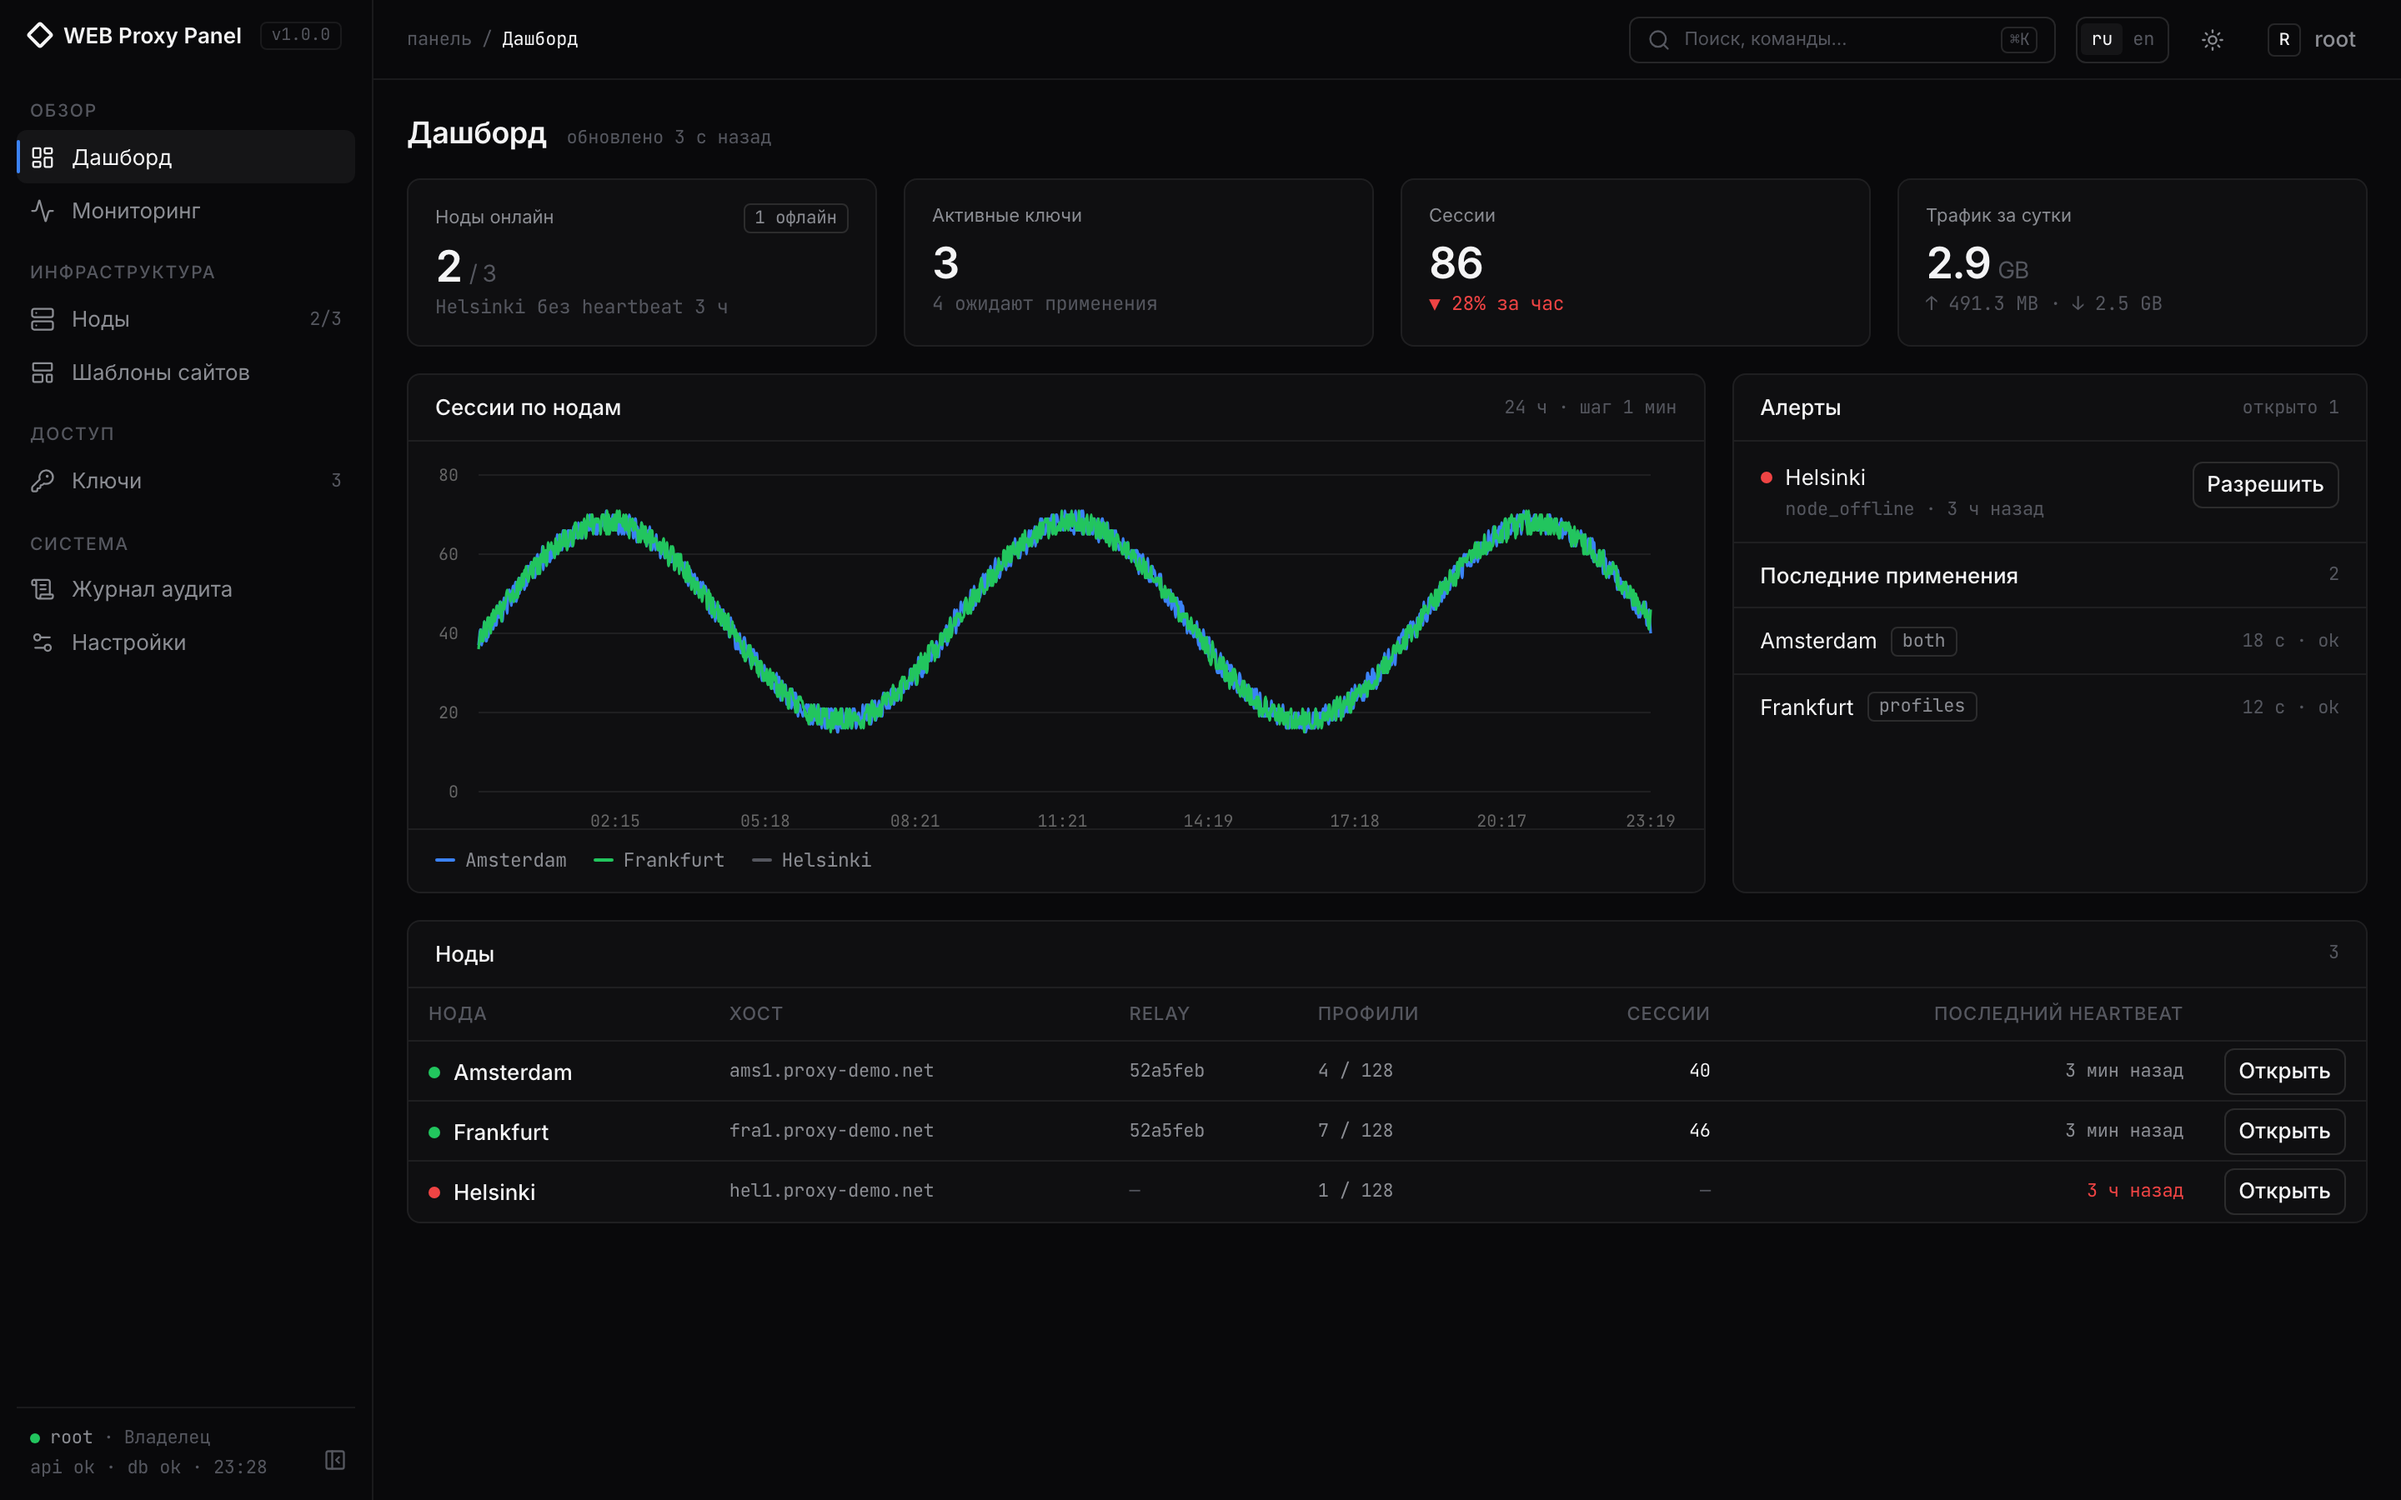
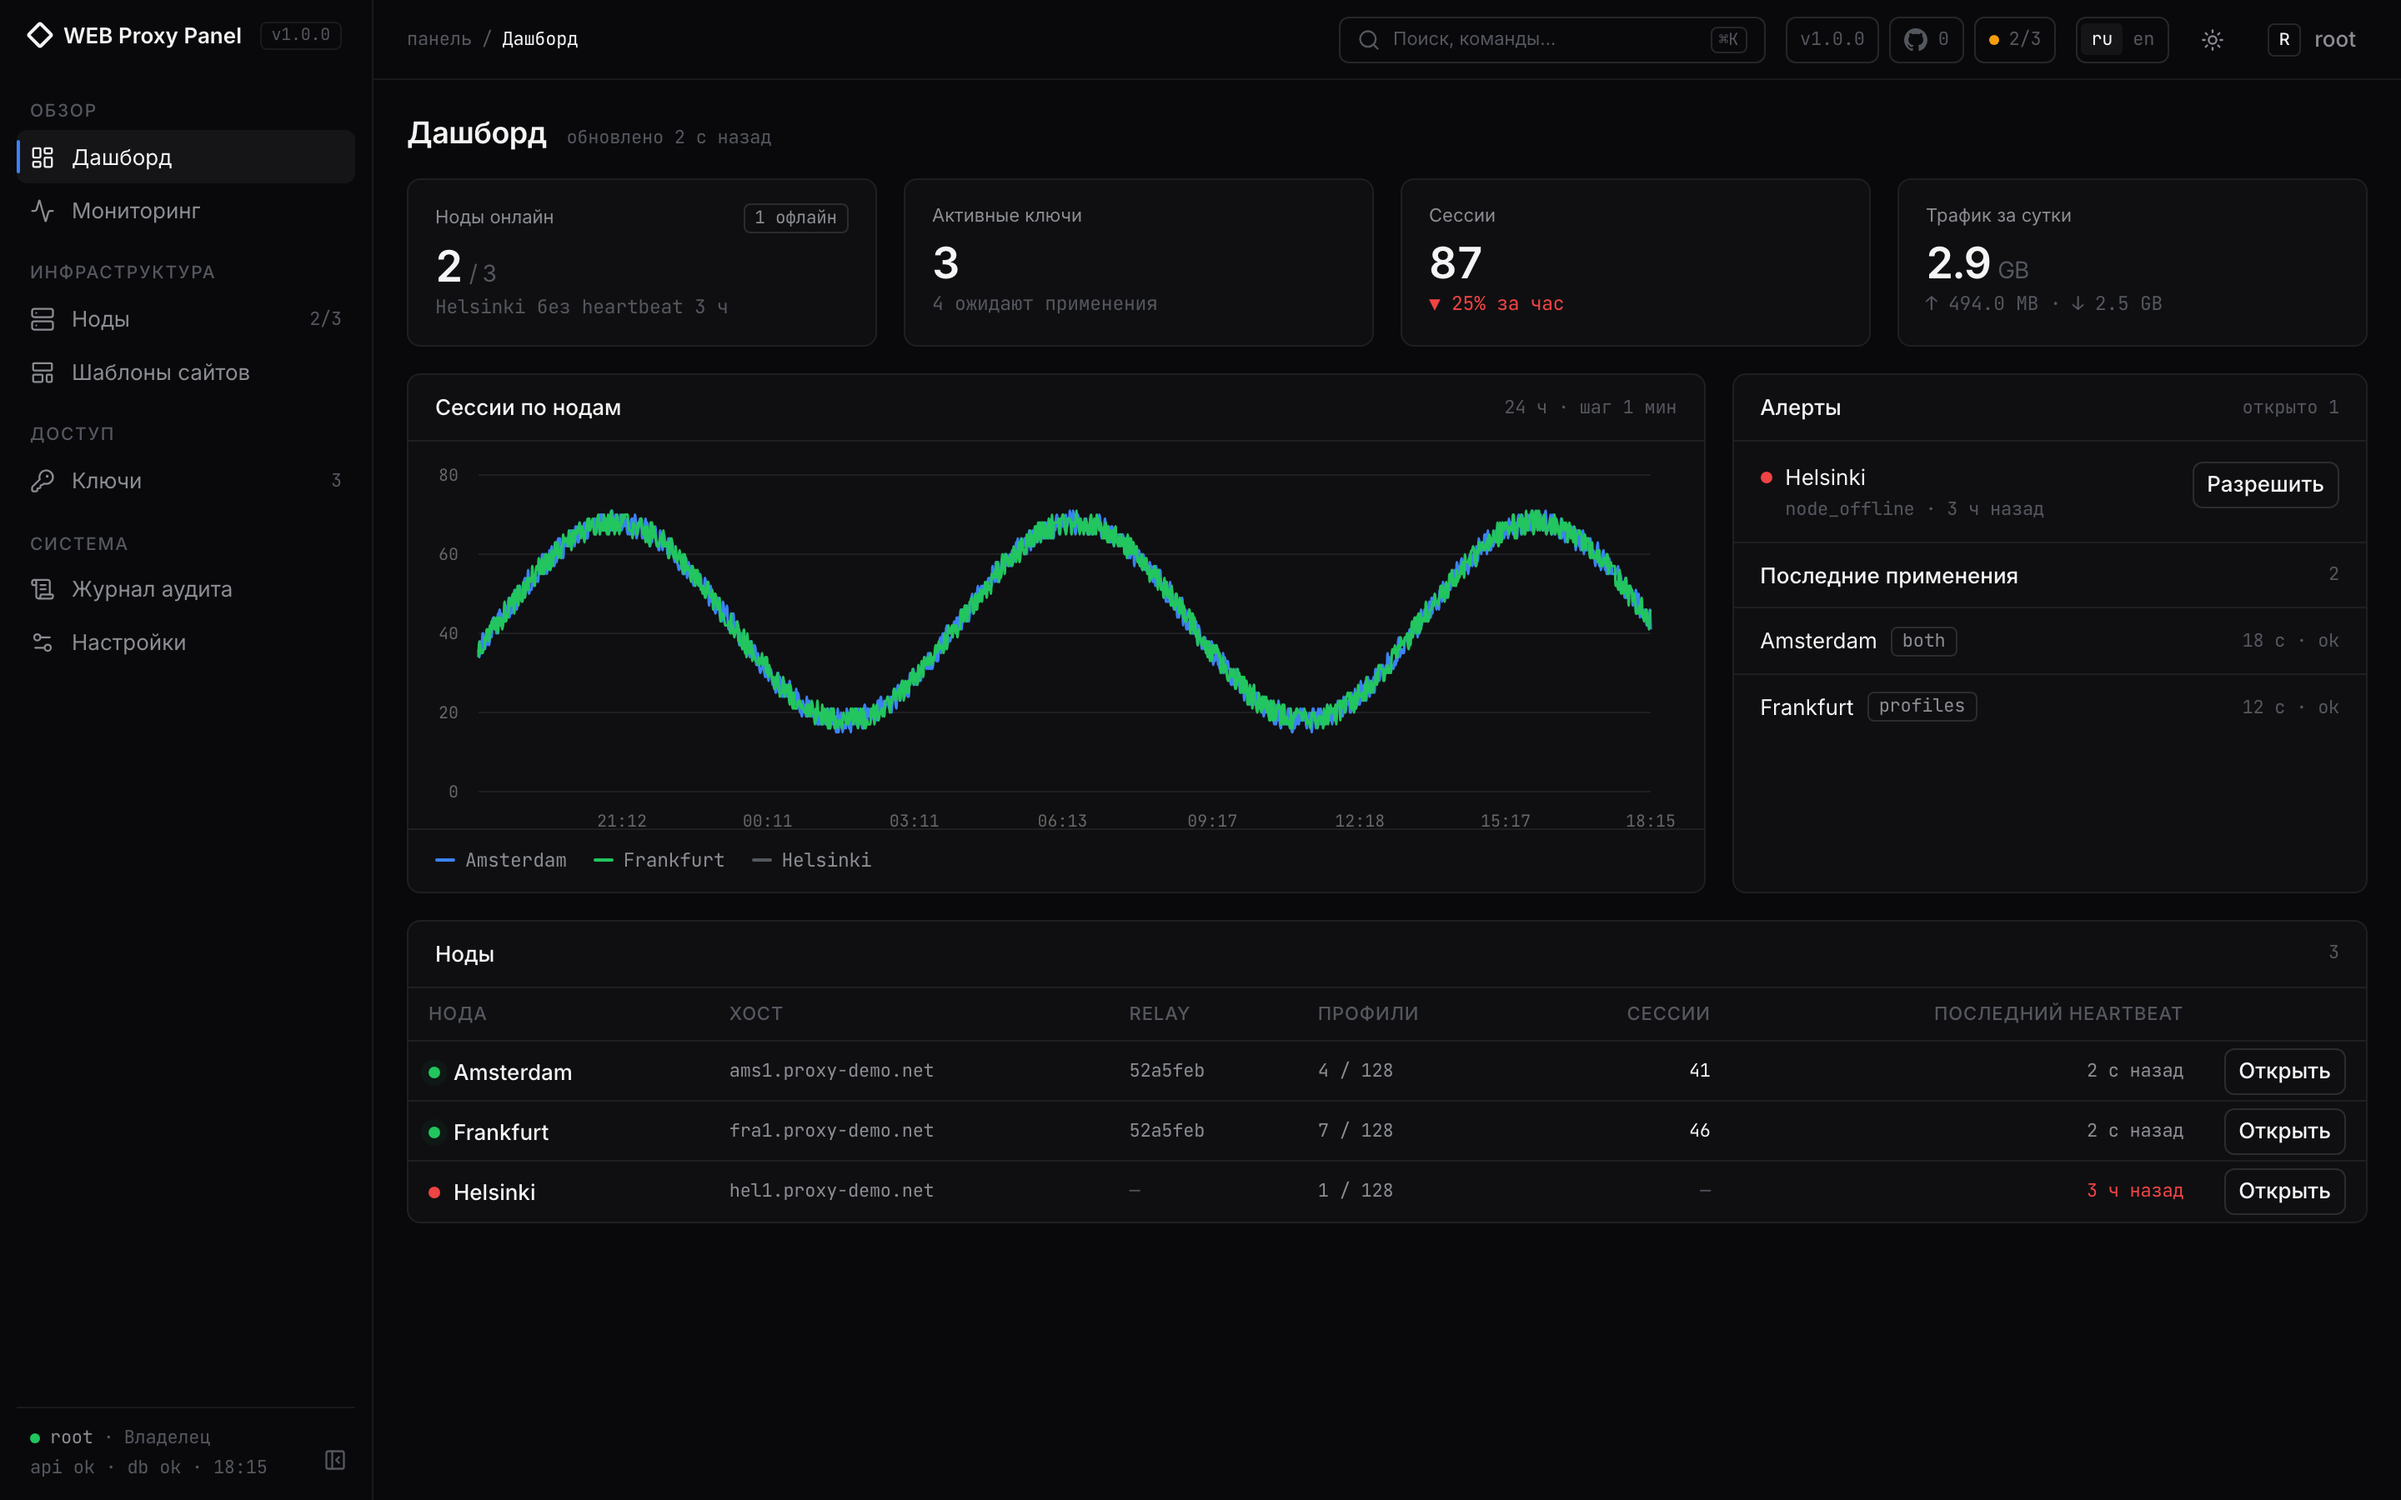
CI: build the SPA before the Go job; document the top bar chips

diff --git a/docs/setup.ru.md b/docs/setup.ru.md
@@ -240,6 +240,12 @@ make e2e-telemt
 
 ![Палитра команд](screenshots/command-palette.png)
 
+Справа в верхней панели три чипа: версия панели, проект на GitHub со счётчиком звёзд и ноды онлайн. Панель раз в час читает последний релиз репозитория `GITHUB_REPO` (по умолчанию `greenpandorik/tgproxy-panel`); если вышла новая версия, чип версии подсвечивается и ведёт на страницу релиза. Ничего о вашей установке при этом не отправляется; `UPDATE_CHECK=false` в `.env` отключает обращения к GitHub. На узких экранах те же данные лежат в меню пользователя.
+
+![Чипы в верхней панели](screenshots/topbar.png)
+
+![Подсветка обновления](screenshots/topbar-update.png)
+
 ## 11. Брендинг
 
 Настройки → Брендинг: название, логотип, favicon, цвета, тема по умолчанию, тексты входа и футера, свой CSS. Изменения применяются сразу, без пересборки. Можно держать несколько профилей и переключать активный.

diff --git a/docs/setup.en.md b/docs/setup.en.md
@@ -239,6 +239,12 @@ Search and commands are available with `⌘K` / `Ctrl+K`.
 
 ![Command palette](screenshots/command-palette.png)
 
+The right side of the top bar carries three chips: the panel version, the project on GitHub with its star count, and nodes online. Once an hour the panel reads the latest release of `GITHUB_REPO` (default `greenpandorik/tgproxy-panel`); when a newer version exists the version chip is highlighted and links to the release page. Nothing about your installation is sent; `UPDATE_CHECK=false` in `.env` turns the GitHub calls off. On narrow screens the same information sits in the user menu.
+
+![Top bar chips](screenshots/topbar.png)
+
+![Update highlight](screenshots/topbar-update.png)
+
 ## 11. Branding
 
 Settings → Branding: name, logo, favicon, colours, default theme, login and footer texts, custom CSS. Changes apply immediately without a rebuild. Several profiles can be kept and switched.
